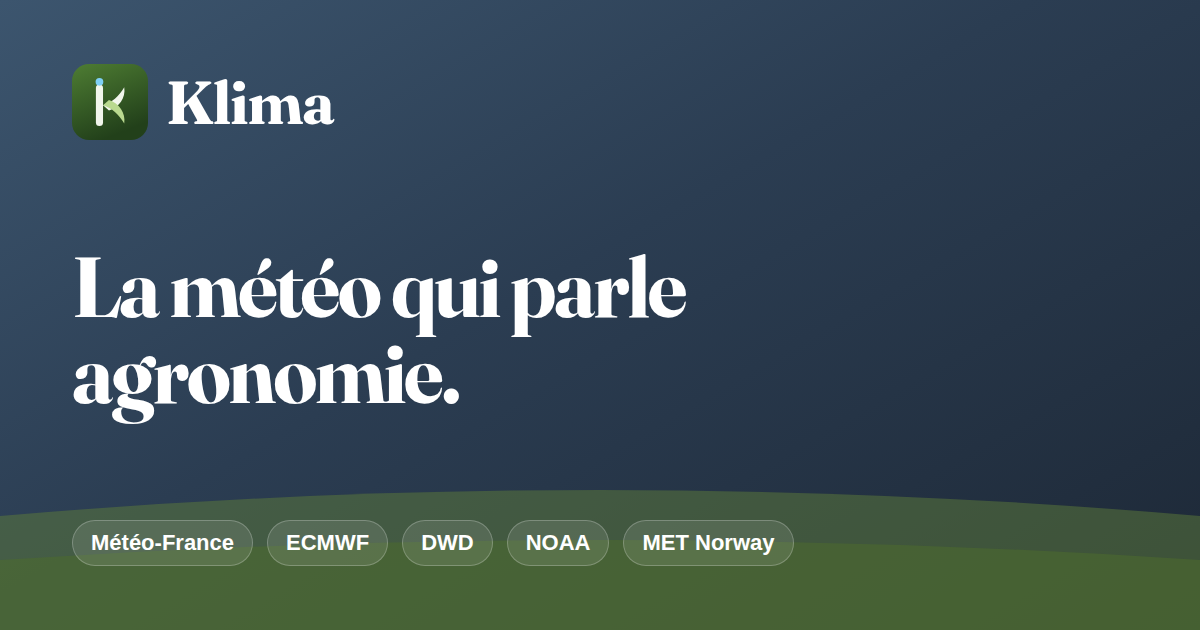
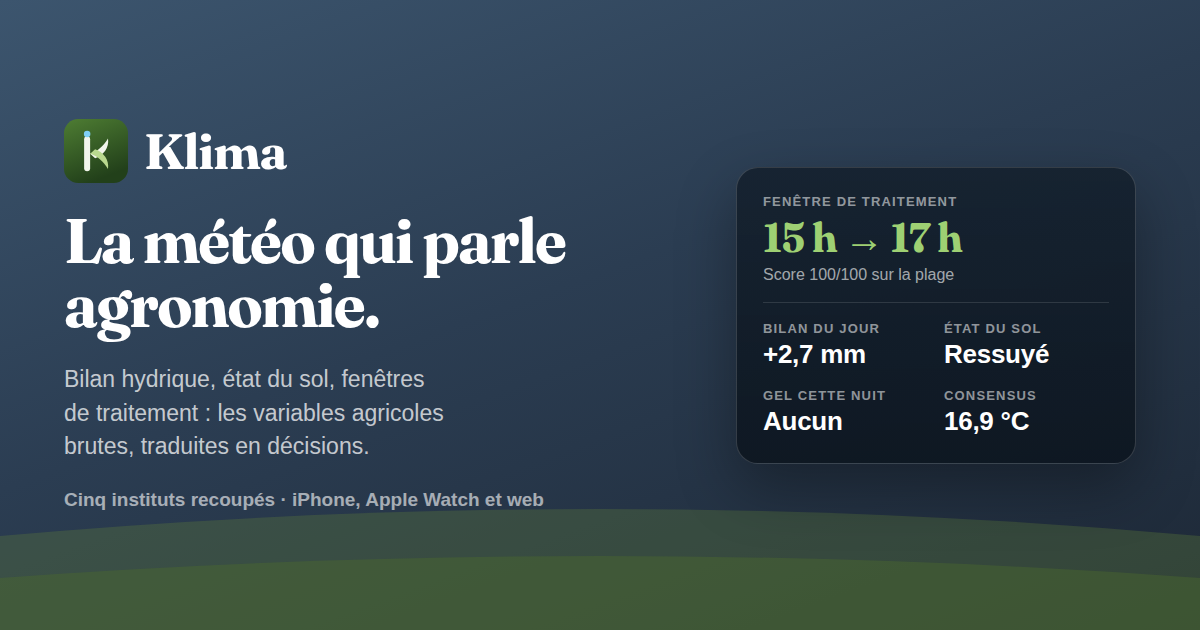
Un seul signe pour les deux interfaces, et un aperçu de lien qui montre le produit
La marque remonte dans le paquet partagé. Elle vivait dans site/, si bien que
l'application web n'en affichait aucune : elle avait le bon favicon et la
bonne icône d'installation, mais pas de signe à l'écran. Le composant est
maintenant dans core/src/ui, comme les icônes météo et le sélecteur de langue.
Le site et l'application montrent le même dessin, pas deux copies qui
divergeront.

L'application web reçoit donc un bandeau de tête : le signe et le nom à
gauche, la langue à droite, la recherche de parcelle en dessous. Le sélecteur
de langue n'avait jamais été habillé côté application — trois boutons nus
sous le champ de recherche ; il prend la même pilule que sur le site. Le nom
reste en linéale : l'application est un outil, elle ne charge pas de police
d'affichage pour trois lettres.

L'aperçu des liens partagés est redessiné. L'ancien ne portait qu'une
promesse et cinq noms d'instituts ; celui-ci montre ce que Klima répond — la
fenêtre de traitement, le bilan du jour, l'état du sol, le gel, le consensus —
dans une carte de verre posée sur le même ciel que le reste. Deux tirages du
même gabarit : celui de la vitrine et celui de l'application.

L'application web n'ayant pas encore d'adresse publique, ses chemins d'aperçu
restent relatifs ; ils deviendront absolus le jour où elle sera publiée. Le
commentaire dans son en-tête le dit.

diff --git a/web/index.html b/web/index.html
@@ -14,6 +14,36 @@
       content="Météo agricole : bilan hydrique, humidité du sol, fenêtres de traitement et degrés-jours de croissance."
     />
     <title>Klima — météo agricole</title>
+
+    <!--
+      L'aperçu des liens partagés. L'application n'a pas encore d'adresse
+      publique : les chemins restent relatifs et deviendront absolus le jour
+      où elle sera publiée, comme sur le site de présentation.
+    -->
+    <meta property="og:type" content="website" />
+    <meta property="og:site_name" content="Klima" />
+    <meta property="og:locale" content="fr_FR" />
+    <meta property="og:locale:alternate" content="en_GB" />
+    <meta property="og:locale:alternate" content="es_ES" />
+    <meta property="og:title" content="Klima — votre parcelle, tout de suite" />
+    <meta
+      property="og:description"
+      content="Cherchez une commune, lisez la journée : état du sol, bilan hydrique et fenêtres de traitement. Sans compte ni clé d'API."
+    />
+    <meta property="og:image" content="./og.png" />
+    <meta property="og:image:width" content="1200" />
+    <meta property="og:image:height" content="630" />
+    <meta
+      property="og:image:alt"
+      content="Klima — votre parcelle, tout de suite. La carte montre une fenêtre de traitement de 15 h à 17 h, un bilan du jour de +2,7 mm, un sol ressuyé, aucun gel et un consensus à 16,9 °C."
+    />
+    <meta name="twitter:card" content="summary_large_image" />
+    <meta name="twitter:title" content="Klima — votre parcelle, tout de suite" />
+    <meta
+      name="twitter:description"
+      content="Cherchez une commune, lisez la journée : état du sol, bilan hydrique et fenêtres de traitement. Sans compte ni clé d'API."
+    />
+    <meta name="twitter:image" content="./og.png" />
   </head>
   <body>
     <div id="root"></div>

diff --git a/web/src/index.css b/web/src/index.css
@@ -52,6 +52,64 @@ body {
   gap: 14px;
 }
 
+/* Bandeau de tête -------------------------------------------------------- */
+
+/* Le signe et la langue, sur une même ligne au-dessus de la recherche. La
+   marque est celle du paquet partagé : le site et l'application montrent le
+   même dessin. Le nom reste en linéale ici — l'application est un outil, pas
+   une vitrine, et ne charge pas de police d'affichage. */
+.topbar {
+  display: flex;
+  align-items: center;
+  justify-content: space-between;
+  gap: 12px;
+  padding: 14px 0 2px;
+}
+
+.brand {
+  display: inline-flex;
+  align-items: center;
+  gap: 8px;
+}
+
+.brand-mark {
+  display: block;
+  flex: none;
+}
+
+.brand__name {
+  font-size: 19px;
+  font-weight: 650;
+  letter-spacing: -0.01em;
+}
+
+.lang {
+  display: inline-flex;
+  gap: 2px;
+  padding: 2px;
+  border: 1px solid rgb(255 255 255 / 14%);
+  border-radius: 999px;
+  background: rgb(255 255 255 / 8%);
+}
+
+.lang button {
+  padding: 4px 10px;
+  border: 0;
+  border-radius: 999px;
+  background: none;
+  color: var(--text-muted);
+  font: inherit;
+  font-size: 12px;
+  font-weight: 650;
+  letter-spacing: 0.04em;
+  cursor: pointer;
+}
+
+.lang button.is-current {
+  background: rgb(255 255 255 / 16%);
+  color: #fff;
+}
+
 /* En-tête ---------------------------------------------------------------- */
 
 .hero {

diff --git a/web/src/App.tsx b/web/src/App.tsx
@@ -5,7 +5,7 @@ import { HourlyStrip } from './components/HourlyStrip'
 import { ParcelleSearch } from './components/ParcelleSearch'
 import { SprayCard } from './components/SprayCard'
 import { AgroThresholds } from '@klima/core'
-import { LanguageSwitcher, useI18n } from '@klima/core/ui'
+import { BrandLockup, LanguageSwitcher, useI18n } from '@klima/core/ui'
 import { useAgroForecast } from './hooks/useAgroForecast'
 import { useParcelle } from './hooks/useParcelle'
 
@@ -19,10 +19,12 @@ export default function App() {
   return (
     <div className={`sky sky--${sky}`}>
       <div className="shell">
-        <div className="topbar">
-          <ParcelleSearch current={parcelle} onSelect={setParcelle} />
+        <header className="topbar">
+          <BrandLockup size={26} />
           <LanguageSwitcher className="lang" label={t('language.label')} />
-        </div>
+        </header>
+
+        <ParcelleSearch current={parcelle} onSelect={setParcelle} />
 
         {loading && !forecast && <p className="state">{t('app.loading')}</p>}
 

diff --git a/core/src/ui/Brand.tsx b/core/src/ui/Brand.tsx
@@ -7,8 +7,12 @@
  * un pied de page.
  *
  * La géométrie est celle des gabarits de /tmp/brand : favicon, icônes web,
- * icône iOS et watchOS, image de partage et ce composant sortent du même
- * dessin, dans le même repère de 1024. Toute retouche se porte des deux côtés.
+ * icône iOS et watchOS, aperçus de lien partagé et ce composant sortent du
+ * même dessin, dans le même repère de 1024. Toute retouche se porte des deux
+ * côtés.
+ *
+ * Le composant vit dans le paquet partagé : l'application web et le site
+ * affichent le même signe, pas deux copies qui divergeront.
  */
 
 interface Props {

diff --git a/site/index.html b/site/index.html
@@ -35,7 +35,7 @@
     <meta property="og:image:height" content="630" />
     <meta
       property="og:image:alt"
-      content="Klima — la météo qui parle agronomie, recoupant Météo-France, ECMWF, DWD, NOAA et MET Norway."
+      content="Klima — la météo qui parle agronomie. La carte montre une fenêtre de traitement de 15 h à 17 h, un bilan du jour de +2,7 mm, un sol ressuyé, aucun gel et un consensus à 16,9 °C."
     />
     <meta name="twitter:card" content="summary_large_image" />
     <meta name="twitter:title" content="Klima — la météo qui parle agronomie" />

diff --git a/site/src/App.tsx b/site/src/App.tsx
@@ -1,8 +1,7 @@
 import { useState } from 'react'
 import { AgroThresholds, weatherCondition, type Parcelle } from '@klima/core'
-import { LanguageSwitcher, useI18n } from '@klima/core/ui'
+import { BrandLockup, LanguageSwitcher, useI18n } from '@klima/core/ui'
 import { Features } from './components/Features'
-import { BrandLockup } from './components/Brand'
 import { Footer } from './components/Footer'
 import { SkyScene, SoilProfile, SprayScene } from './components/Illustrations'
 import { Sources } from './components/Sources'

diff --git a/core/src/ui/index.ts b/core/src/ui/index.ts
@@ -3,6 +3,7 @@
  * présentation. Séparées du domaine : importer les règles agronomiques ne doit
  * pas entraîner React.
  */
+export { BrandMark, BrandLockup } from './Brand'
 export { WeatherIcon } from './WeatherIcon'
 export { I18nProvider, useI18n } from './i18n'
 export { LanguageSwitcher } from './LanguageSwitcher'

diff --git a/site/src/components/Footer.tsx b/site/src/components/Footer.tsx
@@ -1,6 +1,5 @@
 import { LANGUAGE_NAMES, LANGUAGES } from '@klima/core'
-import { useI18n } from '@klima/core/ui'
-import { BrandMark } from './Brand'
+import { BrandMark, useI18n } from '@klima/core/ui'
 
 /**
  * Pied de page : ce que le produit couvre, d'où viennent ses chiffres, qui l'a
